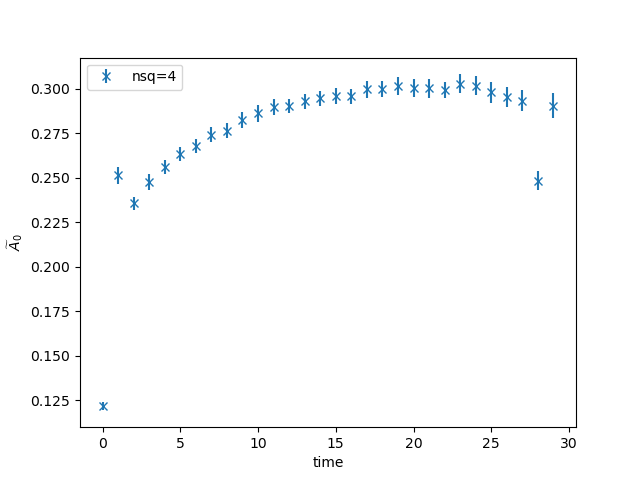
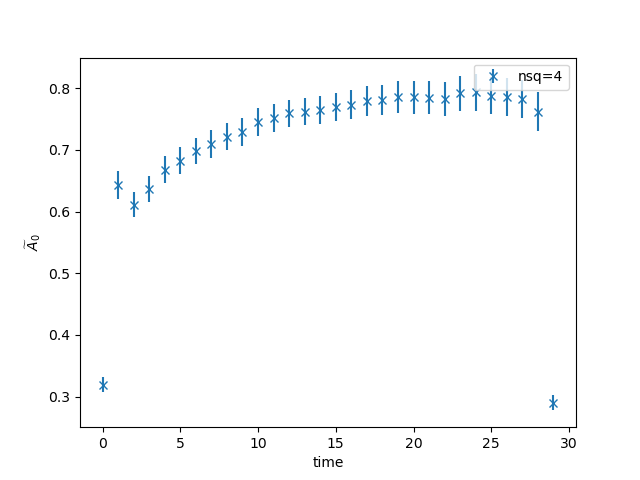
Reran F1s

diff --git a/A0-Av-improved.py b/A0-Av-improved.py
@@ -53,7 +53,7 @@ def sum_with_exceptions_jack(lst,j,i):
             total += jack(num[j],i)  # Add other elements
     return total/len(lst)
 #########decide here which nsq
-nsq=2
+nsq=5
 ##########
 
 
